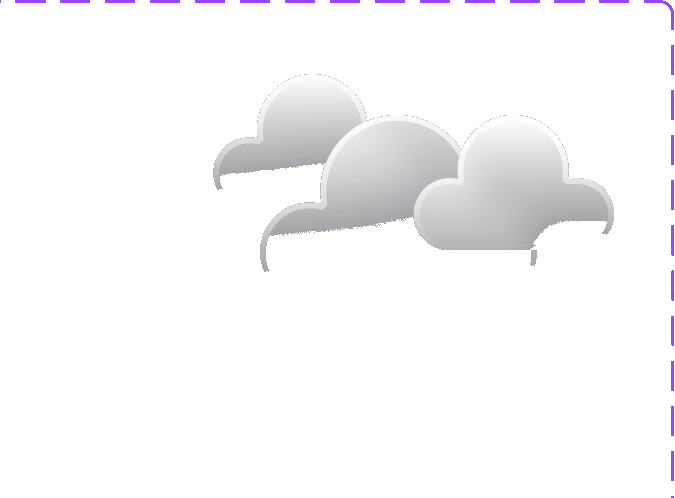
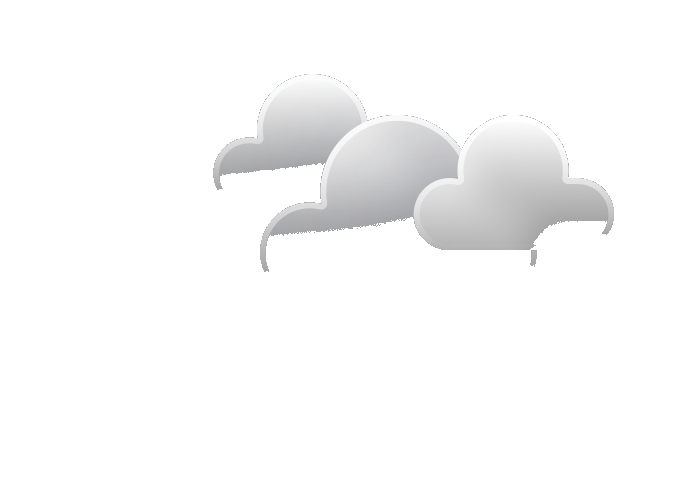
fix(ui): fix MRadioMenu overflow in settings dialogs (#253)
* fix(new-user-flow): home empty-state, onboarding non-trap, body add CTA, mood dismiss

- BUG1: Home rendered a blank screen when the recommendation returned no
  outfit / empty wardrobe. Propagate wardrobe_gap from the cold-start /build
  path (was dropped) and add a HomeEmptyState (add-items + try-again CTAs),
  reusing the shared errorState pattern.
- BUG2: Onboarding-completion was reachable only after the generate step, so a
  generate failure trapped the user in onboarding on every relaunch. Add a
  non-trapping 'Continue to app' escape on the Loading error state that
  completes onboarding (is_first_login=false) via the profile-update path,
  independent of generate.
- BUG3: Body-photo detail empty state instructed 'Tap Retake' but showed no
  obvious button. Add an explicit 'Add photo' CTA that opens the existing
  image-selection source picker.
- BUG4: Mood-feedback sheet gave no clear escape on save-failure. Add an
  always-available Cancel affordance (backdrop + swipe already dismiss).

Adds analytics: home_empty_state_cta_tapped, body_photo_add_started, and
onboarding_completed { generate_failed }; tri-locale i18n; tracking-plan
updated. BUG5 (Settings logout) applied to SettingsScreen.tsx in the working
tree but withheld from this commit (file carries another session's WIP).

* feat(weather): replace SVG weather icons with Figma-designed PNGs

Swap out the hand-drawn SVG implementation in WeatherIcon.tsx for the
[…]

diff --git a/src/components/design-system/lib/MMenu.tsx b/src/components/design-system/lib/MMenu.tsx
@@ -50,7 +50,9 @@ const Row: React.FC<{
       onPress={onPress}
       testID={
         option.testID ??
-        (testID ? `${testID}-${slug(option.value)}${on ? '-on' : ''}` : undefined)
+        (testID
+          ? `${testID}-${slug(option.value)}${on ? '-on' : ''}`
+          : undefined)
       }
       accessibilityRole={kind === 'check' ? 'checkbox' : 'radio'}
       accessibilityState={kind === 'check' ? { checked: on } : { selected: on }}
@@ -135,6 +137,7 @@ export interface MRadioMenuProps {
   value: string;
   onChange: (value: string) => void;
   testID?: string;
+  style?: import('react-native').StyleProp<import('react-native').ViewStyle>;
 }
 
 export const MRadioMenu: React.FC<MRadioMenuProps> = ({
@@ -142,8 +145,9 @@ export const MRadioMenu: React.FC<MRadioMenuProps> = ({
   value,
   onChange,
   testID,
+  style,
 }) => (
-  <View style={[styles.menu, shadow.card]} testID={testID}>
+  <View style={[styles.menu, shadow.card, style]} testID={testID}>
     {options.map((o, i) => (
       <Row
         key={o.value}
@@ -160,7 +164,8 @@ export const MRadioMenu: React.FC<MRadioMenuProps> = ({
 
 const styles = StyleSheet.create({
   menu: {
-    width: 280,
+    width: '100%',
+    maxWidth: 280,
     backgroundColor: role.surface2,
     borderRadius: radius['2xl'],
     overflow: 'hidden',

diff --git a/src/screens/SettingsScreen.tsx b/src/screens/SettingsScreen.tsx
@@ -530,6 +530,7 @@ export const SettingsScreen = () => {
               setPendingPeriod(value as DailyNotificationPeriod)
             }
             testID="settings-time-period"
+            style={{ width: 110 }}
           />
         </View>
       </SettingsDialog>